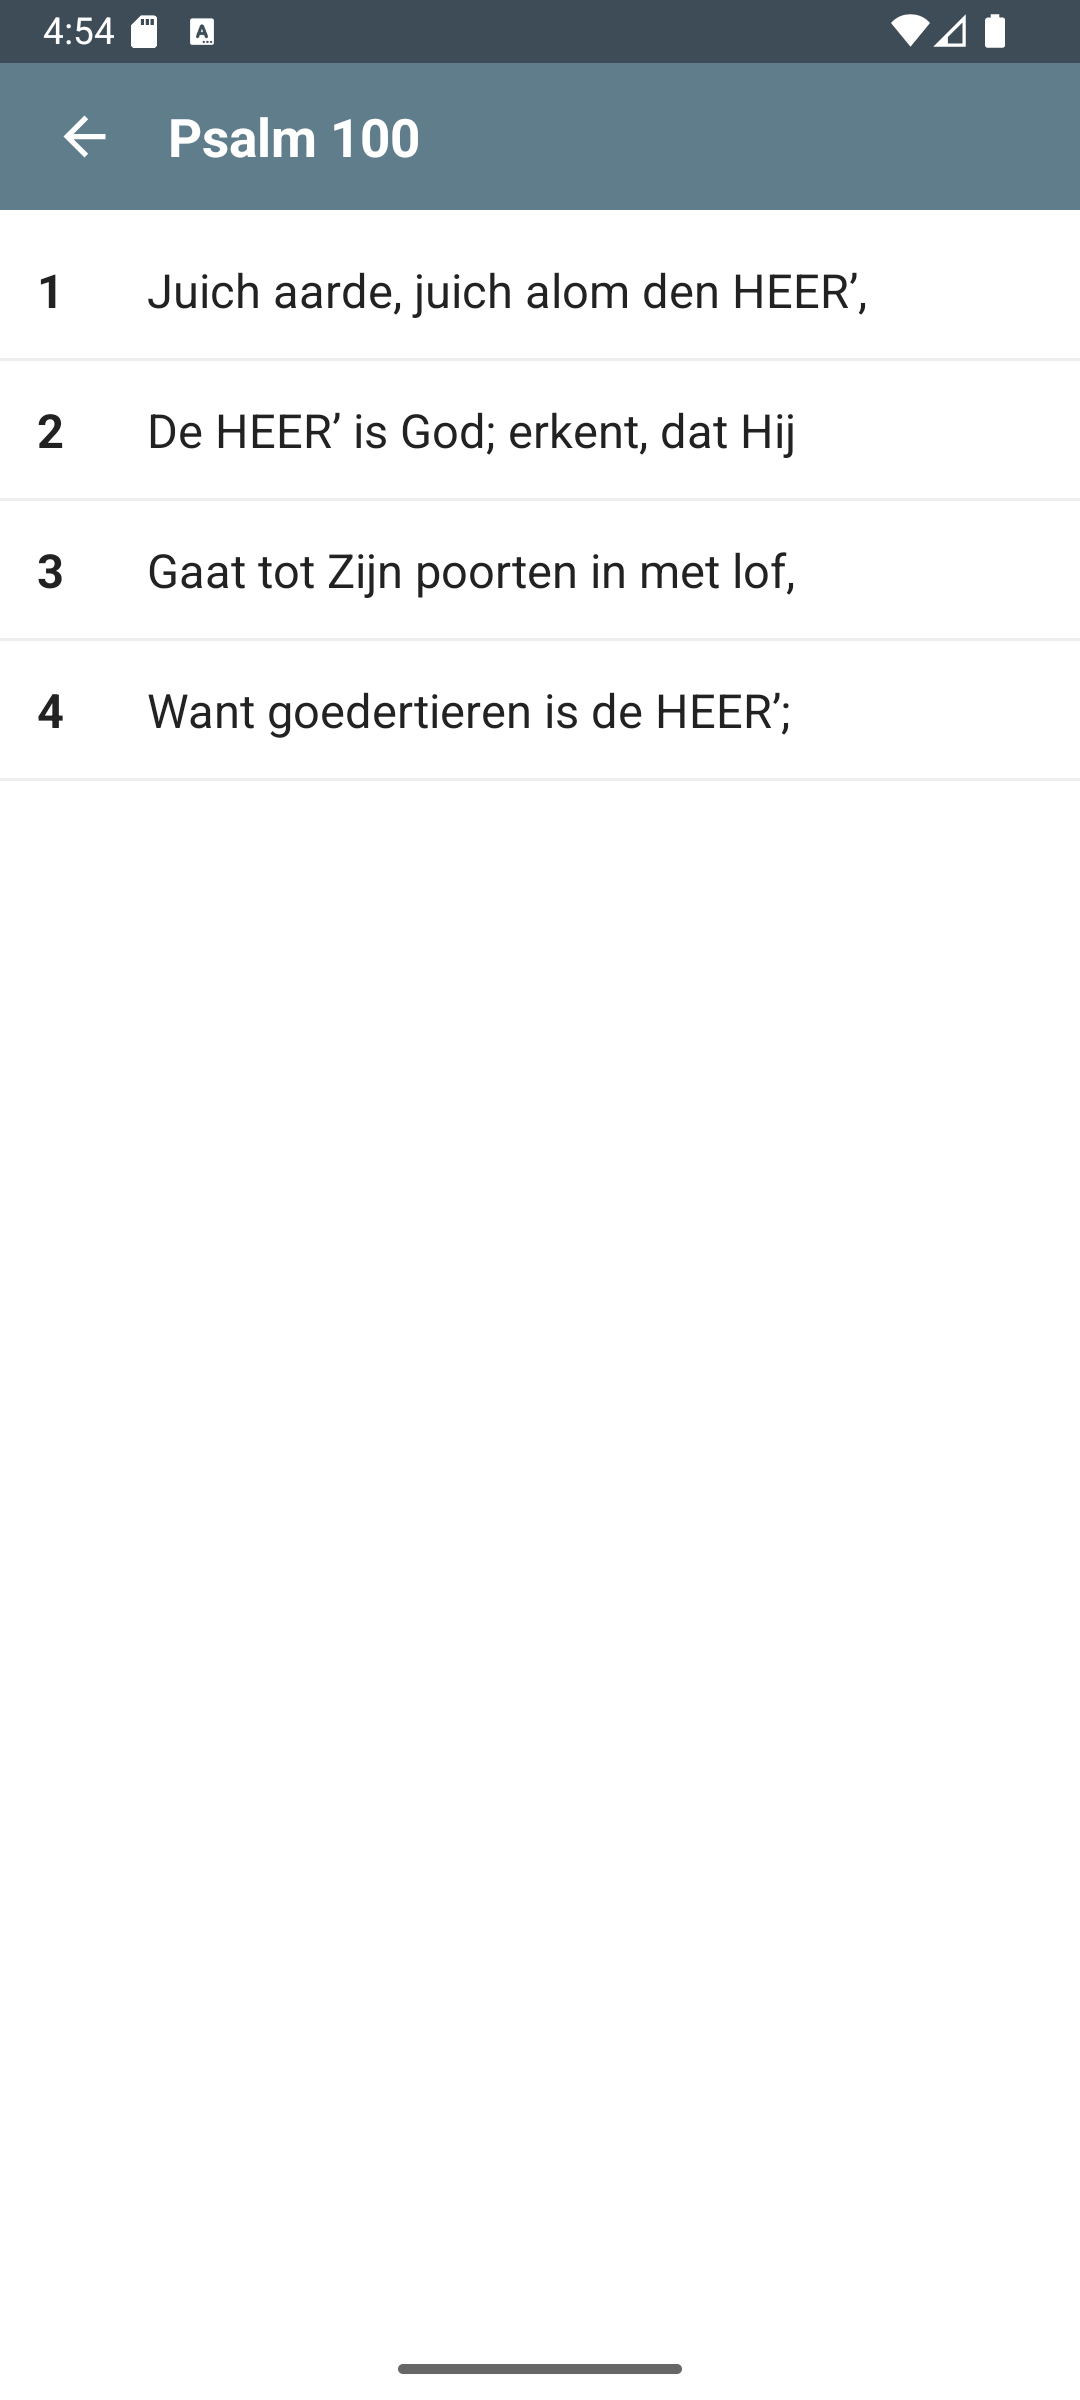
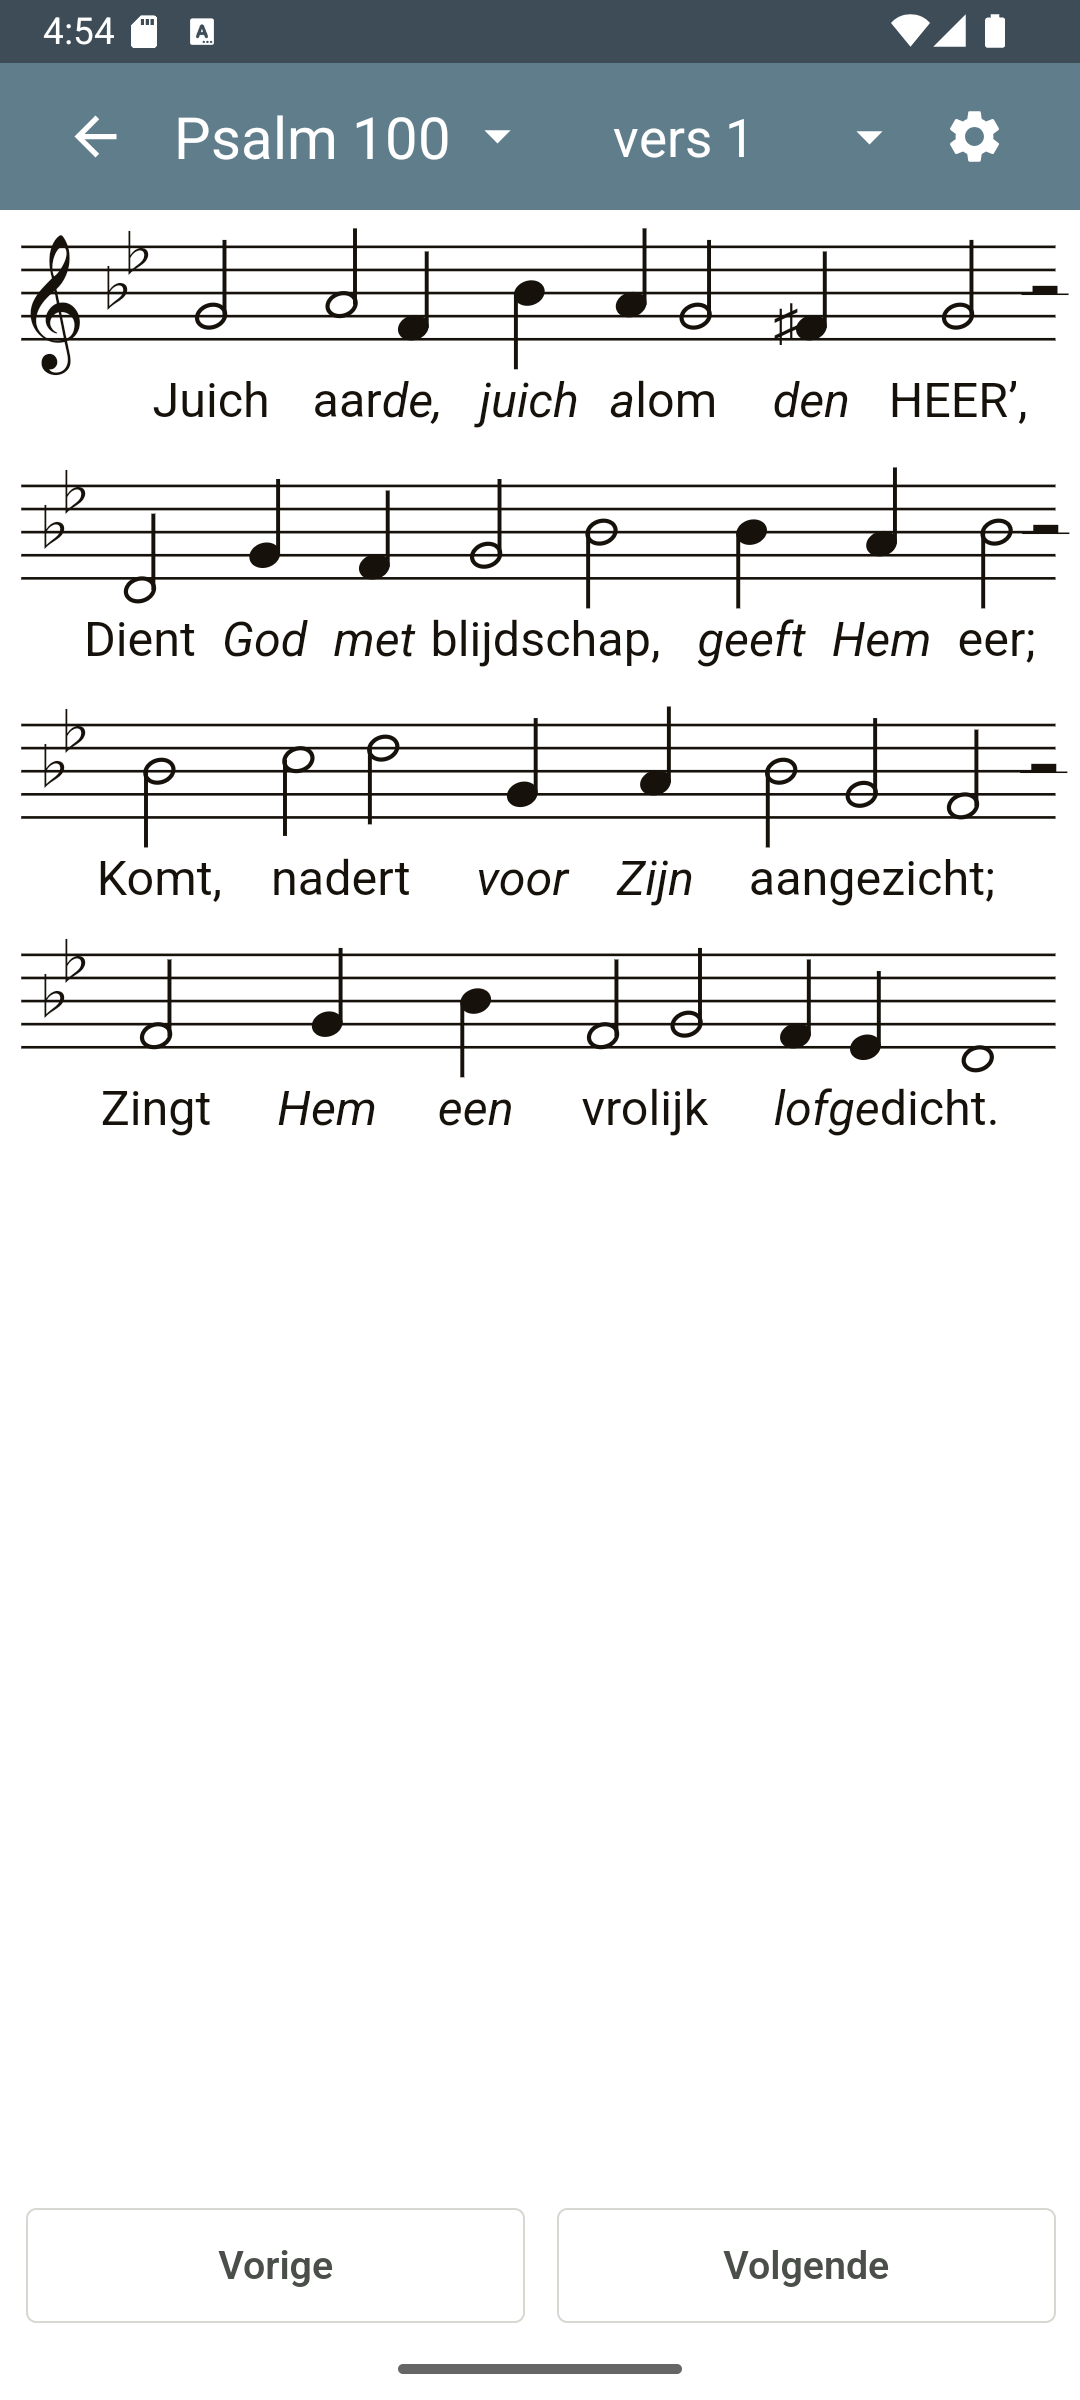
Update screenshots with correct names and 4-image grid

diff --git a/README.md b/README.md
@@ -29,9 +29,11 @@ Personaliseer de app volledig naar jouw wens via het instellingenmenu:
 
 ## Screenshots
 
-| Hoofdscherm | Bladmuziek Weergave |
+| 1. Hoofdscherm | 2. Psalm selectie |
 |:---:|:---:|
-| ![Hoofdscherm](screenshots/main_screen.png) | ![Bladmuziek](screenshots/music_screen.png) |
+| ![Hoofdscherm](screenshots/main_screen.png) | ![Psalm selectie](screenshots/psalmselect_screen.png) |
+| **3. Bladmuziek** | **4. Donkere modus** |
+| ![Bladmuziek](screenshots/music_screen.png) | ![Donkere modus](screenshots/music_screen_darkandfullscreenmode.png) |
 
 ## Ontwikkeling
 Dit project is gebouwd met de volgende Android-technieken:
